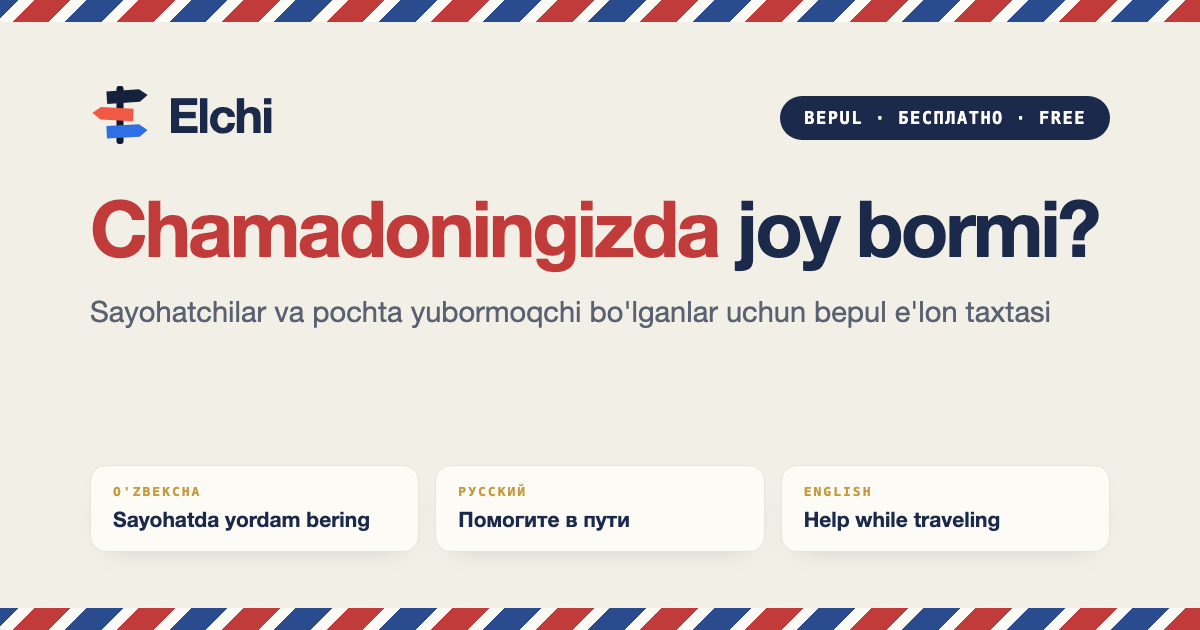
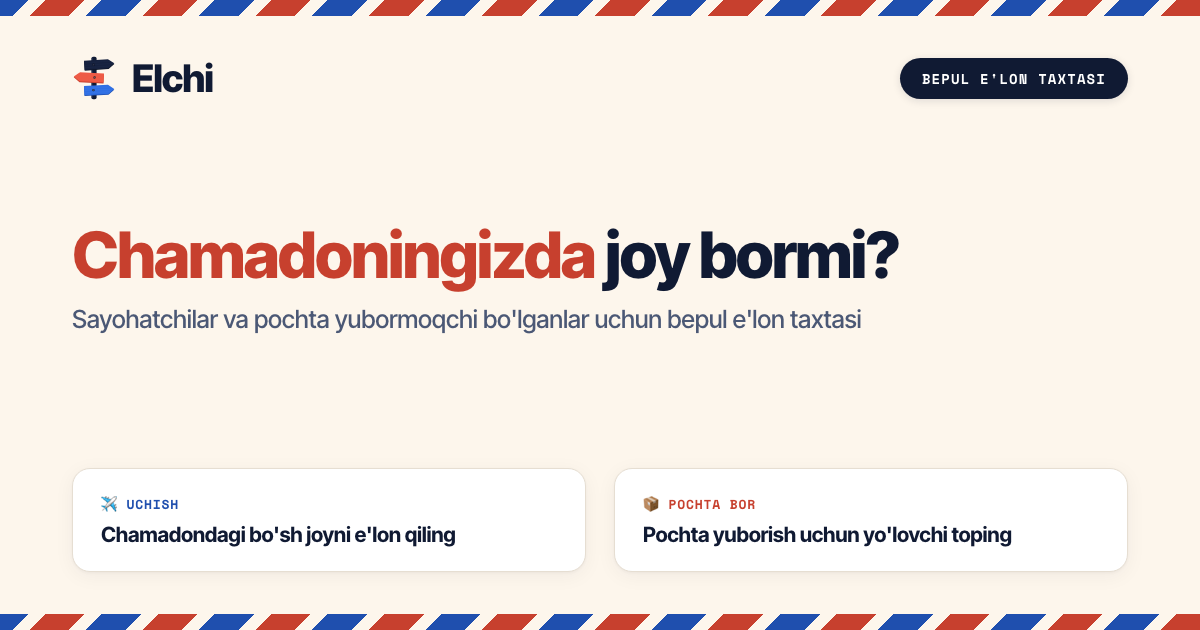
fix(seo): redesign OG image and align metadata with Uzbek-only model
- Redesign public/og-image.png with two-card layout (Uchish / Pochta bor) and update header badge to 'BEPUL E'LON TAXTASI'
- Add scripts/og-image-template.html and scripts/generate-og-image.sh for repeatable generation
- Update index.html and api/post-page.ts structured data (inLanguage: ['uz']), remove multilingual FAQ items, noscript copy, and RU/EN meta keywords
- Clean up unused language string stripping in PostFormModal.tsx
- Update layout documentation in AGENTS.md and CLAUDE.md from src/notes to src/explainer

diff --git a/scripts/og-image-template.html b/scripts/og-image-template.html
@@ -1,0 +1,213 @@
+<!DOCTYPE html>
+<html lang="uz">
+<head>
+  <meta charset="UTF-8">
+  <link rel="preconnect" href="https://fonts.googleapis.com">
+  <link rel="preconnect" href="https://fonts.gstatic.com" crossorigin>
+  <link href="https://fonts.googleapis.com/css2?family=Inter+Tight:wght@400;500;600;700;800;900&family=Space+Mono:wght@700&display=swap" rel="stylesheet">
+  <style>
+    * {
+      box-sizing: border-box;
+      margin: 0;
+      padding: 0;
+    }
+    html, body {
+      width: 1200px;
+      height: 630px;
+      overflow: hidden;
+      background-color: #FDF6EC;
+      font-family: 'Inter Tight', -apple-system, BlinkMacSystemFont, 'Segoe UI', Roboto, sans-serif;
+      color: #101A33;
+      -webkit-font-smoothing: antialiased;
+    }
+    .container {
+      width: 1200px;
+      height: 630px;
+      display: flex;
+      flex-direction: column;
+      justify-content: space-between;
+      position: relative;
+    }
+    .airmail-strip {
+      height: 16px;
+      width: 100%;
+      background: repeating-linear-gradient(
+        -45deg,
+        #C7402E 0,
+        #C7402E 28px,
+        #FDF6EC 28px,
+        #FDF6EC 40px,
+        #1F4FAE 40px,
+        #1F4FAE 68px,
+        #FDF6EC 68px,
+        #FDF6EC 80px
+      );
+    }
+    .content {
+      padding: 38px 72px 42px 72px;
+      flex: 1;
+      display: flex;
+      flex-direction: column;
+      justify-content: space-between;
+    }
+    .header {
+      display: flex;
+      justify-content: space-between;
+      align-items: center;
+    }
+    .logo-group {
+      display: flex;
+      align-items: center;
+      gap: 16px;
+    }
+    .logo-text {
+      font-size: 38px;
+      font-weight: 800;
+      letter-spacing: -0.03em;
+      color: #101A33;
+    }
+    .badge {
+      background-color: #101A33;
+      color: #FFFFFF;
+      padding: 10px 22px;
+      border-radius: 9999px;
+      font-family: 'Space Mono', monospace;
+      font-size: 14px;
+      font-weight: 700;
+      letter-spacing: 0.08em;
+      text-transform: uppercase;
+      box-shadow: 0 2px 8px rgba(16, 26, 51, 0.12);
+    }
+    .hero {
+      margin-top: 10px;
+      margin-bottom: 24px;
+    }
+    .hero-title {
+      font-size: 64px;
+      font-weight: 800;
+      line-height: 1.08;
+      letter-spacing: -0.03em;
+      margin-bottom: 14px;
+    }
+    .hero-title .accent {
+      color: #C7402E;
+    }
+    .hero-sub {
+      font-size: 25px;
+      font-weight: 500;
+      color: #4B5875;
+      line-height: 1.35;
+      letter-spacing: -0.01em;
+    }
+    .cards-row {
+      display: grid;
+      grid-template-columns: 1fr 1fr;
+      gap: 28px;
+    }
+    .card {
+      background: #FFFFFF;
+      border: 1px solid #E6DED2;
+      border-radius: 18px;
+      padding: 24px 28px;
+      box-shadow: 0 4px 20px rgba(16, 26, 51, 0.05), 0 1px 3px rgba(16, 26, 51, 0.04);
+      display: flex;
+      flex-direction: column;
+      justify-content: center;
+    }
+    .card-tag {
+      display: inline-flex;
+      align-items: center;
+      gap: 6px;
+      font-family: 'Space Mono', monospace;
+      font-size: 13px;
+      font-weight: 700;
+      letter-spacing: 0.06em;
+      margin-bottom: 8px;
+    }
+    .card-tag.blue {
+      color: #1F4FAE;
+    }
+    .card-tag.red {
+      color: #C7402E;
+    }
+    .card-headline {
+      font-size: 21px;
+      font-weight: 700;
+      color: #101A33;
+      letter-spacing: -0.015em;
+    }
+  </style>
+</head>
+<body>
+  <div class="container">
+    <div class="airmail-strip"></div>
+    <div class="content">
+      <div class="header">
+        <div class="logo-group">
+          <svg width="44" height="48" viewBox="0 0 220 240" fill="none" xmlns="http://www.w3.org/2000/svg">
+            <defs>
+              <clipPath id="ei-clip">
+                <path d="M0,0 L120,0 L150,23 L120,46 L0,46 Z"/>
+              </clipPath>
+            </defs>
+            <rect x="97" y="14" width="26" height="212" rx="9" fill="#101A33"/>
+            <rect x="99" y="18" width="6" height="204" rx="3" fill="#26365F" opacity="0.55"/>
+            <g transform="translate(60,34) rotate(-4)">
+              <path d="M0,4 L120,4 L150,27 L120,50 L0,50 Z" fill="#0E1526"/>
+              <path d="M0,0 L120,0 L150,23 L120,46 L0,46 Z" fill="#16213E"/>
+              <g clip-path="url(#ei-clip)" stroke="#2A3A63" stroke-width="1.4" opacity="0.5">
+                <line x1="0" y1="11" x2="150" y2="11"/>
+                <line x1="0" y1="23" x2="150" y2="23"/>
+                <line x1="0" y1="35" x2="150" y2="35"/>
+              </g>
+              <circle cx="46" cy="23" r="6" fill="#0A0F1C"/>
+              <path d="M43,23 h6 M46,20 v6" stroke="#5A6790" stroke-width="1.3" stroke-linecap="round"/>
+            </g>
+            <g transform="translate(160,97) rotate(3) scale(-1,1)">
+              <path d="M0,4 L120,4 L150,27 L120,50 L0,50 Z" fill="#C7402E"/>
+              <path d="M0,0 L120,0 L150,23 L120,46 L0,46 Z" fill="#EF5A45"/>
+              <g clip-path="url(#ei-clip)" stroke="#D96A52" stroke-width="1.4" opacity="0.5">
+                <line x1="0" y1="11" x2="150" y2="11"/>
+                <line x1="0" y1="23" x2="150" y2="23"/>
+                <line x1="0" y1="35" x2="150" y2="35"/>
+              </g>
+              <circle cx="46" cy="23" r="6" fill="#0A0F1C"/>
+              <path d="M43,23 h6 M46,20 v6" stroke="#F2A594" stroke-width="1.3" stroke-linecap="round"/>
+            </g>
+            <g transform="translate(60,160) rotate(-3)">
+              <path d="M0,4 L120,4 L150,27 L120,50 L0,50 Z" fill="#1F4FAE"/>
+              <path d="M0,0 L120,0 L150,23 L120,46 L0,46 Z" fill="#2F6FE4"/>
+              <g clip-path="url(#ei-clip)" stroke="#5A8CEC" stroke-width="1.4" opacity="0.5">
+                <line x1="0" y1="11" x2="150" y2="11"/>
+                <line x1="0" y1="23" x2="150" y2="23"/>
+                <line x1="0" y1="35" x2="150" y2="35"/>
+              </g>
+              <circle cx="46" cy="23" r="6" fill="#0A0F1C"/>
+              <path d="M43,23 h6 M46,20 v6" stroke="#9DB9F5" stroke-width="1.3" stroke-linecap="round"/>
+            </g>
+          </svg>
+          <span class="logo-text">Elchi</span>
+        </div>
+        <div class="badge">BEPUL E'LON TAXTASI</div>
+      </div>
+
+      <div class="hero">
+        <h1 class="hero-title"><span class="accent">Chamadoningizda</span> joy bormi?</h1>
+        <p class="hero-sub">Sayohatchilar va pochta yubormoqchi bo'lganlar uchun bepul e'lon taxtasi</p>
+      </div>
+
+      <div class="cards-row">
+        <div class="card">
+          <div class="card-tag blue">✈ UCHISH</div>
+          <div class="card-headline">Chamadondagi bo'sh joyni e'lon qiling</div>
+        </div>
+        <div class="card">
+          <div class="card-tag red">📦 POCHTA BOR</div>
+          <div class="card-headline">Pochta yuborish uchun yo'lovchi toping</div>
+        </div>
+      </div>
+    </div>
+    <div class="airmail-strip"></div>
+  </div>
+</body>
+</html>

diff --git a/index.html b/index.html
@@ -37,7 +37,7 @@
     />
     <meta
       name="keywords"
-      content="pochta yuborish, chamadonda joy, sayohatda yordam, yuk tashish e'lonlari, hujjat yuborish, dori yuborish, sovg'a yuborish, elchi, посылка, передать посылку, попутчик, место в чемодане, courier, luggage space, send parcel with traveler"
+      content="pochta yuborish, chamadonda joy, sayohatda yordam, yuk tashish e'lonlari, hujjat yuborish, dori yuborish, sovg'a yuborish, elchi"
     />
     <meta name="theme-color" content="#1B2A4A" />
     <link rel="canonical" href="https://elchi.org/" />
@@ -70,14 +70,14 @@
 
     <link rel="icon" type="image/svg+xml" href="/favicon.svg" />
 
-    <!-- Structured data: what the site is, and the three languages it serves -->
+    <!-- Structured data: what the site is, and its supported language -->
     <script type="application/ld+json">
       {
         "@context": "https://schema.org",
         "@type": "WebSite",
         "name": "Elchi",
         "url": "https://elchi.org/",
-        "inLanguage": ["uz", "ru", "en"],
+        "inLanguage": ["uz"],
         "description": "Sayohatchilar va pochta yubormoqchi bo'lganlarni bog'lovchi bepul e'lon taxtasi.",
         "publisher": {
           "@type": "Organization",
@@ -88,8 +88,7 @@
       }
     </script>
 
-    <!-- FAQ in all three languages: real indexable text that also answers the
-         questions people actually type into search. -->
+    <!-- FAQ in Uzbek: real indexable text that answers the questions people actually type into search. -->
     <script type="application/ld+json">
       {
         "@context": "https://schema.org",
@@ -118,38 +117,6 @@
               "@type": "Answer",
               "text": "Telegram, Google yoki email orqali kiring, \"E'lon berish\" tugmasini bosing, yo'nalish, sana, bo'sh joy va aloqa ma'lumotlaringizni kiriting. E'lon darhol taxtada paydo bo'ladi."
             }
-          },
-          {
-            "@type": "Question",
-            "name": "Что такое Elchi?",
-            "acceptedAnswer": {
-              "@type": "Answer",
-              "text": "Elchi — бесплатная доска объявлений. Путешественники со свободным местом в чемодане и те, кому нужно передать посылку, находят друг друга здесь. Мы не участвуем в оплате и доставке — пользователи договариваются напрямую."
-            }
-          },
-          {
-            "@type": "Question",
-            "name": "Сколько стоит размещение объявления?",
-            "acceptedAnswer": {
-              "@type": "Answer",
-              "text": "Нисколько. Размещение и просмотр объявлений полностью бесплатны."
-            }
-          },
-          {
-            "@type": "Question",
-            "name": "What is Elchi?",
-            "acceptedAnswer": {
-              "@type": "Answer",
-              "text": "Elchi is a free notice board. Travelers with spare luggage space and people who need to send a parcel find each other here. We take no part in payment or delivery — users arrange everything directly."
-            }
-          },
-          {
-            "@type": "Question",
-            "name": "Is posting free?",
-            "acceptedAnswer": {
-              "@type": "Answer",
-              "text": "Yes. Posting an ad and browsing the board are both completely free."
-            }
           }
         ]
       }
@@ -158,9 +125,8 @@
   <body>
     <div id="root"></div>
 
-    <!-- Static copy in all three languages so the raw HTML carries real text
-         before React mounts. Hidden once the app renders; crawlers and
-         no-JS visitors still read it. -->
+    <!-- Static copy in Uzbek so the raw HTML carries real text before React mounts.
+         Hidden once the app renders; crawlers and no-JS visitors still read it. -->
     <noscript>
       <h1>Elchi — chamadoningizda joy bormi?</h1>
       <p>
@@ -170,23 +136,7 @@
         Elchi to'lov va yetkazib berishga aralashmaydi — foydalanuvchilar o'zaro
         bevosita kelishadi.
       </p>
-      <h2>Elchi — есть место в чемодане?</h2>
-      <p>
-        Elchi — бесплатная доска объявлений для путешественников и тех, кому
-        нужно передать посылку. Есть свободное место в чемодане — разместите
-        объявление; нужно отправить документы, лекарства, одежду или подарок —
-        найдите попутчика. Elchi не участвует в оплате и доставке: пользователи
-        договариваются напрямую.
-      </p>
-      <h2>Elchi — is there room in your suitcase?</h2>
-      <p>
-        Elchi is a free notice board for travelers and people who need to send a
-        parcel. Have spare luggage space — post an ad; need to send documents,
-        medicine, clothes or a gift — find someone already making the trip.
-        Elchi takes no part in payment or delivery: users arrange everything
-        directly.
-      </p>
-      <p>Bepul · Бесплатно · Free</p>
+      <p>Bepul e'lon taxtasi</p>
     </noscript>
 
     <script type="module" src="/src/main.tsx"></script>

diff --git a/api/post-page.ts b/api/post-page.ts
@@ -28,7 +28,7 @@ const HTML_SHELL = `<!doctype html>
     />
     <meta
       name="keywords"
-      content="pochta yuborish, chamadonda joy, sayohatda yordam, yuk tashish e'lonlari, hujjat yuborish, dori yuborish, sovg'a yuborish, elchi, посылка, передать посылку, попутчик, место в чемодане, courier, luggage space, send parcel with traveler"
+      content="pochta yuborish, chamadonda joy, sayohatda yordam, yuk tashish e'lonlari, hujjat yuborish, dori yuborish, sovg'a yuborish, elchi"
     />
     <meta name="theme-color" content="#1B2A4A" />
     <link rel="canonical" href="__META_URL__" />
@@ -66,7 +66,7 @@ const HTML_SHELL = `<!doctype html>
         "@type": "WebSite",
         "name": "Elchi",
         "url": "https://elchi.org/",
-        "inLanguage": ["uz", "ru", "en"],
+        "inLanguage": ["uz"],
         "description": "Sayohatchilar va pochta yubormoqchi bo'lganlarni bog'lovchi bepul e'lon taxtasi.",
         "publisher": {
           "@type": "Organization",
@@ -90,23 +90,7 @@ const HTML_SHELL = `<!doctype html>
         Elchi to'lov va yetkazib berishga aralashmaydi — foydalanuvchilar o'zaro
         bevosita kelishadi.
       </p>
-      <h2>Elchi — есть место в чемодане?</h2>
-      <p>
-        Elchi — бесплатная доска объявлений для путешественников и тех, кому
-        нужно передать посылку. Есть свободное место в чемодане — разместите
-        объявление; нужно отправить документы, лекарства, одежду или подарок —
-        найдите попутчика. Elchi не участвует в оплате и доставке: пользователи
-        договариваются напрямую.
-      </p>
-      <h2>Elchi — is there room in your suitcase?</h2>
-      <p>
-        Elchi is a free notice board for travelers and people who need to send a
-        parcel. Have spare luggage space — post an ad; need to send documents,
-        medicine, clothes or a gift — find someone already making the trip.
-        Elchi takes no part in payment or delivery: users arrange everything
-        directly.
-      </p>
-      <p>Bepul · Бесплатно · Free</p>
+      <p>Bepul e'lon taxtasi</p>
     </noscript>
 
     <script type="module" src="/src/main.tsx"></script>

diff --git a/src/components/PostFormModal.tsx b/src/components/PostFormModal.tsx
@@ -623,7 +623,7 @@ export const PostFormModal: React.FC<PostFormModalProps> = ({
             <>
               <div>
                 <label className="block font-mono text-[10.5px] tracking-wider uppercase text-blue font-bold mb-1.5">
-                  {t.noteLabel.replace(" (ixtiyoriy)", "").replace(" (опционально)", "").replace(" (optional)", "")} <span className="text-red-500">*</span>
+                  {t.noteLabel.replace(" (ixtiyoriy)", "")} <span className="text-red-500">*</span>
                 </label>
                 <textarea
                   ref={(el) => { fieldRefs.current.note = el; }}

diff --git a/AGENTS.md b/AGENTS.md
@@ -45,7 +45,7 @@ locally, run `vercel dev` alongside; [vite.config.ts](vite.config.ts) proxies `/
 |---|---|
 | [src/App.tsx](src/App.tsx) | The whole page — feed, detail sheet, modals wiring. ~1000 lines, single component |
 | [src/components/](src/components) | Cards, composers, selectors, auth sheets |
-| [src/notes/](src/notes) | Static editorial cards above the feed. **Not** posts, never touch the API |
+| [src/explainer/](src/explainer) | Static editorial cards above the feed. **Not** posts, never touch the API |
 | [src/types.ts](src/types.ts) | `Post`, `PostContact`, `Translations`, `Locale` |
 | [src/constants.ts](src/constants.ts) | Country registry — the source of truth for supported routes |
 | [src/translations.ts](src/translations.ts) | Uzbek copy, keyed by `Locale` |

diff --git a/CLAUDE.md b/CLAUDE.md
@@ -45,7 +45,7 @@ locally, run `vercel dev` alongside; [vite.config.ts](vite.config.ts) proxies `/
 |---|---|
 | [src/App.tsx](src/App.tsx) | The whole page — feed, detail sheet, modals wiring. ~1000 lines, single component |
 | [src/components/](src/components) | Cards, composers, selectors, auth sheets |
-| [src/notes/](src/notes) | Static editorial cards above the feed. **Not** posts, never touch the API |
+| [src/explainer/](src/explainer) | Static editorial cards above the feed. **Not** posts, never touch the API |
 | [src/types.ts](src/types.ts) | `Post`, `PostContact`, `Translations`, `Locale` |
 | [src/constants.ts](src/constants.ts) | Country registry — the source of truth for supported routes |
 | [src/translations.ts](src/translations.ts) | Uzbek copy, keyed by `Locale` |
